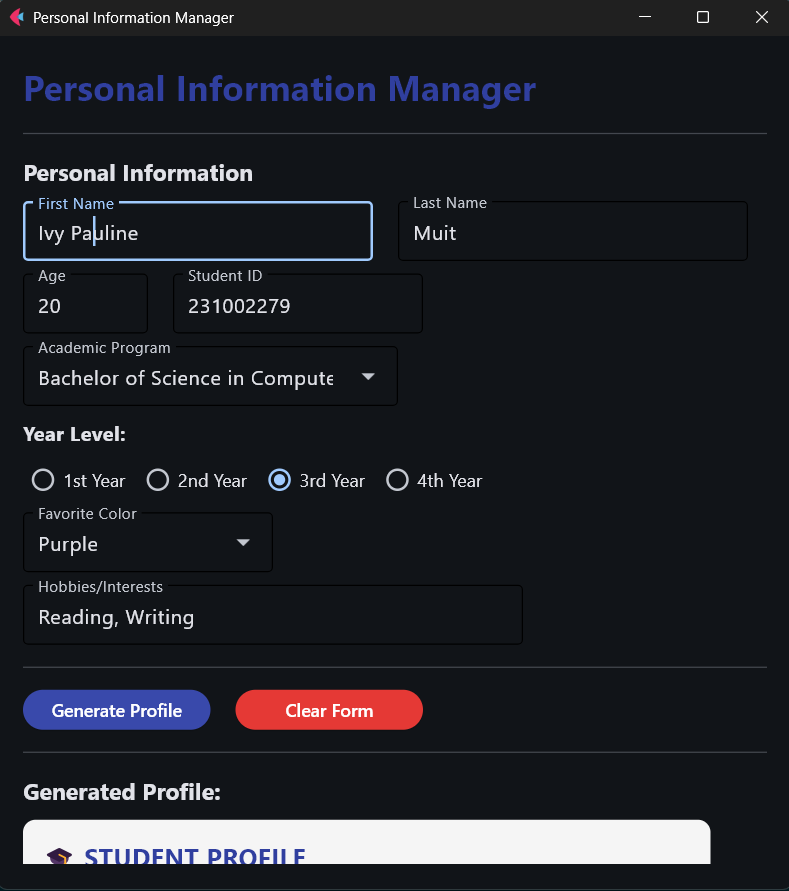
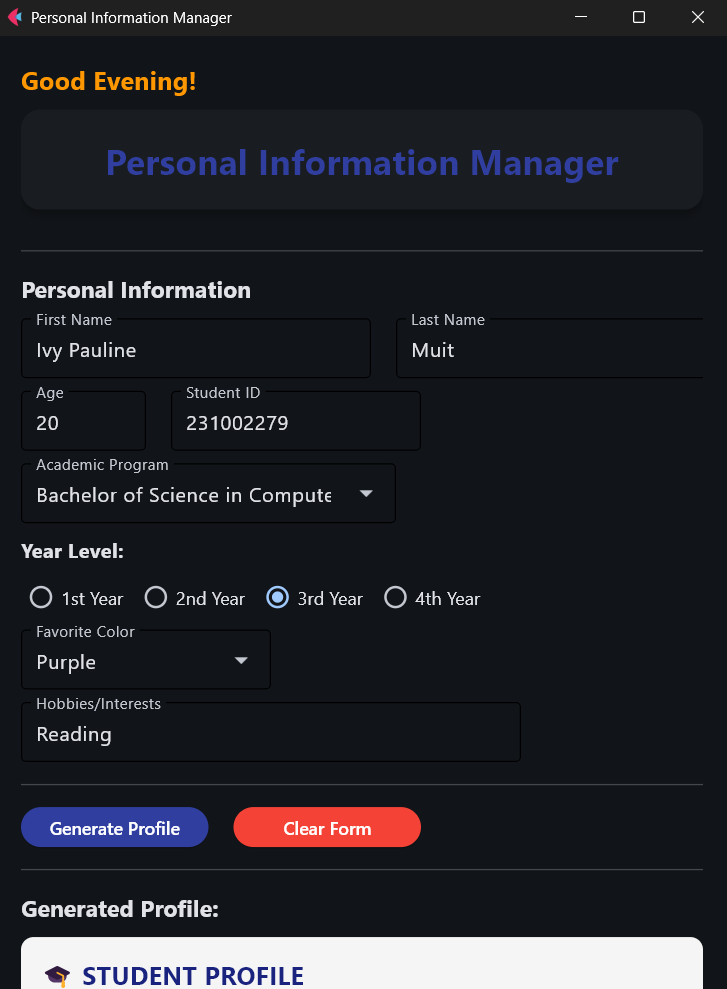
Updated personal info GUI, report, and screenshots

diff --git a/week2_labs/personal_info_gui.py b/week2_labs/personal_info_gui.py
@@ -14,13 +14,35 @@ def main(page: ft.Page):
     page.scroll = ft.ScrollMode.AUTO
     
     # Title
-    title = ft.Text(
-        "Personal Information Manager",
-        size=28,
-        weight=ft.FontWeight.BOLD,
-        text_align=ft.TextAlign.CENTER,
-        color=ft.Colors.INDIGO_700
+    title = ft.Card(
+        content=ft.Container(
+            content=ft.Text("Personal Information Manager",
+                            size=28,
+                            weight=ft.FontWeight.BOLD,
+                            text_align=ft.TextAlign.CENTER,
+                            color=ft.Colors.INDIGO_700),
+            padding=20,
+            alignment=ft.alignment.center,
+        ),
+        elevation=5,
+        shape=ft.RoundedRectangleBorder(radius=15),
+        margin=ft.margin.only(bottom=15),
     )
+    
+    # Dynamic greeting based on time of day
+    def get_greeting():
+        hour = datetime.now().hour
+        if 5 <= hour < 12:
+            return "Good Morning!"
+        elif 12 <= hour < 18:
+            return "Good Afternoon!"
+        else:
+            return "Good Evening!"
+        
+    greeting = ft.Text(get_greeting(),
+                            size=20,
+                            weight=ft.FontWeight.BOLD,
+                            color=ft.Colors.ORANGE_500)
     
     # Input fields
     first_name = ft.TextField(label="First Name", width=280)
@@ -89,7 +111,7 @@ def main(page: ft.Page):
             
             # Generate profile
             profile_content = ft.Column([
-                ft.Text("🎓 STUDENT PROFILE", size=20, weight=ft.FontWeight.BOLD, color=ft.Colors.INDIGO_700),
+                ft.Text("🎓 STUDENT PROFILE", size=20, weight=ft.FontWeight.BOLD, color=ft.Colors.INDIGO_900),
                 ft.Divider(),
                 ft.Text(f"👤 Full Name: {first_name.value} {last_name.value}", size=16),
                 ft.Text(f"🆔 Student ID: {student_id.value or 'Not provided'}", size=16),
@@ -139,11 +161,19 @@ def main(page: ft.Page):
         dialog.open = False
         page.update()
     
-    # Buttons
+    # Buttons with tooltips and hover effect
+    def on_hover(e):
+        e.control.bgcolor = ft.Colors.INDIGO_900 if e.dat == "true" else ft.Colors.INDIGO_500
+        e.control.update()
+        
+    def on_hover_clear(e):
+        e.control.bgcolor = ft.Colors.RED_900 if e.data == "true" else ft.Colors.RED_500
+        e.control.update()
+    
     generate_btn = ft.ElevatedButton(
         "Generate Profile",
         on_click=generate_profile,
-        bgcolor=ft.Colors.INDIGO_600,
+        bgcolor=ft.Colors.INDIGO_700,
         color=ft.Colors.WHITE,
         width=150
     )
@@ -155,10 +185,12 @@ def main(page: ft.Page):
         color=ft.Colors.WHITE,
         width=150
     )
+    clear_btn.on_hover = on_hover_clear
     
     # Layout
     page.add(
         ft.Column([
+            greeting,
             title,
             ft.Divider(),
             ft.Text("Personal Information", size=18, weight=ft.FontWeight.BOLD),

diff --git a/week2_labs/LAB2_REPORT.md b/week2_labs/LAB2_REPORT.md
@@ -10,7 +10,7 @@
 ### Repository Setup
 - **GitHub Repository:** [(https://github.com/pau-827/cccs106-projects)]
 - **Local Repository:** ✅ Initialized and connected
-- **Commit History:** [6] commits with descriptive messages
+- **Commit History:** [8] commits with descriptive messages
 
 ### Git Skills Demonstrated
 - ✅ Repository initialization and configuration
@@ -60,7 +60,10 @@ Through this exercise, I learned how version control with Git helps keep project
 ### 1. Hello Flet
 ![Hello Flet](lab2_screenshots/hello_flet.png)
 
-### 2. Personal Info GUI
+### 2. Personal Info GUI (Enhanced)
+- Added dynamic greeting
+- Adjusted title design
+- Added hover effect and tooltips on buttons
 ![Personal Info GUI](lab2_screenshots/personal_info_gui.png)
 
 ### Git Repository
